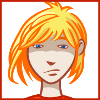
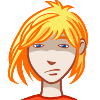
Adaptation des tailles d'exercice (en fait ce n'était pas fait au précédent commit :-(

diff --git a/exercice.cpp b/exercice.cpp
@@ -92,14 +92,17 @@ void exercice::adapte(QPixmap cheminImage)
 {
     QRect ecran;
     ecran=QApplication::desktop()->screenGeometry();
-    cheminImage.scaledToHeight(ecran.width()-50, Qt::SmoothTransformation);
-    QBrush* fond = new QBrush(cheminImage);
+    QPixmap imgFond2 = cheminImage.scaledToHeight(ecran.height()-100, Qt::SmoothTransformation);
+     qDebug()<<"largeur imageAvant = "<<cheminImage.width()<<" Largeur imageApres = "<<imgFond2.width();
+    //m_ratioTaille = static_cast<double>(imgFond2.width())/static_cast<double>(cheminImage.width());
+    *m_imgFond = imgFond2;
+    QBrush* fond = new QBrush(imgFond2);
             m_ui->vue->setBackgroundBrush(*fond);
             m_scene = new QGraphicsScene(this);
             m_ui->vue->setScene(m_scene);
-            m_scene->setSceneRect(0, 0, cheminImage.width(), cheminImage.height());
-            //this->setGeometry(0,150, cheminImage.width()+147,cheminImage.height()+47);
-            this->setFixedSize(cheminImage.width()+147,cheminImage.height()+47);
+            m_scene->setSceneRect(0, 0, imgFond2.width(), imgFond2.height()-50);
+            this->setGeometry(0,150, cheminImage.width()+147,cheminImage.height()+47);
+            this->setFixedSize(imgFond2.width()+147,imgFond2.height());
 }
 
 void exercice::chargerParametres()
@@ -152,16 +155,17 @@ qDebug()<<"Creation de baudruche avec temps "<<m_temps;
         else if (m_operation.left(6)=="tableA" || m_operation.left(6)=="tableM")
                     m_baudruche = new baudruche(m_minG,m_maxG,m_minD,m_maxD,m_temps,m_operation.left(6),*m_depart);
 
-        else if (m_operation.left(11)=="complementA"
-                 || m_operation.left(11)=="complementM")
-                    m_baudruche = new baudruche(m_minG,m_temps,m_operation.left(11), *m_depart,"fantome");
+        else if (m_operation.left(11)=="complementA")
+                        m_baudruche = new baudruche(m_minG,m_temps,m_operation.left(11), *m_depart,"fantome");
+            else if (m_operation.left(11)=="complementM")
+                    m_baudruche = new baudruche(m_minG,m_temps,m_operation.left(11), *m_depart);
 
-             else if (m_operation=="approcheA"
-                      || m_operation=="approcheS"
-                      || m_operation=="approcheM")
-                              m_baudruche = new baudruche(m_maxG,m_maxD,m_temps,m_operation, *m_depart);
+                 else if (m_operation=="approcheA"
+                          || m_operation=="approcheS"
+                          || m_operation=="approcheM")
+                                  m_baudruche = new baudruche(m_maxG,m_maxD,m_temps,m_operation, *m_depart);
 
-                  else  QMessageBox::critical(this, tr("Opération inexistante"), m_operation.append(QString::fromUtf8(tr(", ça n'existe pas comme opération...").toStdString().c_str())));
+                      else  QMessageBox::critical(this, tr("Opération inexistante"), m_operation.append(QString::fromUtf8(tr(", ça n'existe pas comme opération...").toStdString().c_str())));
 
                       //          else {qDebug()<< "Pas d'opération portant le nom de "<<m_operation;}//Pourquoi quand même erreur de segmentation
  qDebug()<<"opé tronquée  : "<<m_operation.left(11);

diff --git a/interfacecompetence.cpp b/interfacecompetence.cpp
@@ -183,7 +183,7 @@ void InterfaceCompetence::adapte(QPixmap cheminImage)
     ecran=QApplication::desktop()->screenGeometry();
 
     QPixmap imgFond2=cheminImage.scaledToHeight(ecran.height()-140, Qt::SmoothTransformation);
-qDebug()<<"largeur imageAvant = "<<cheminImage.width()<<" Largeur imageApres = "<<imgFond2.width();
+    qDebug()<<"largeur imageAvant = "<<cheminImage.width()<<" Largeur imageApres = "<<imgFond2.width();
 
     m_ratioTaille = static_cast<double>(imgFond2.width())/static_cast<double>(cheminImage.width());
     qDebug()<<"Ratio taille = "<<m_ratioTaille;
